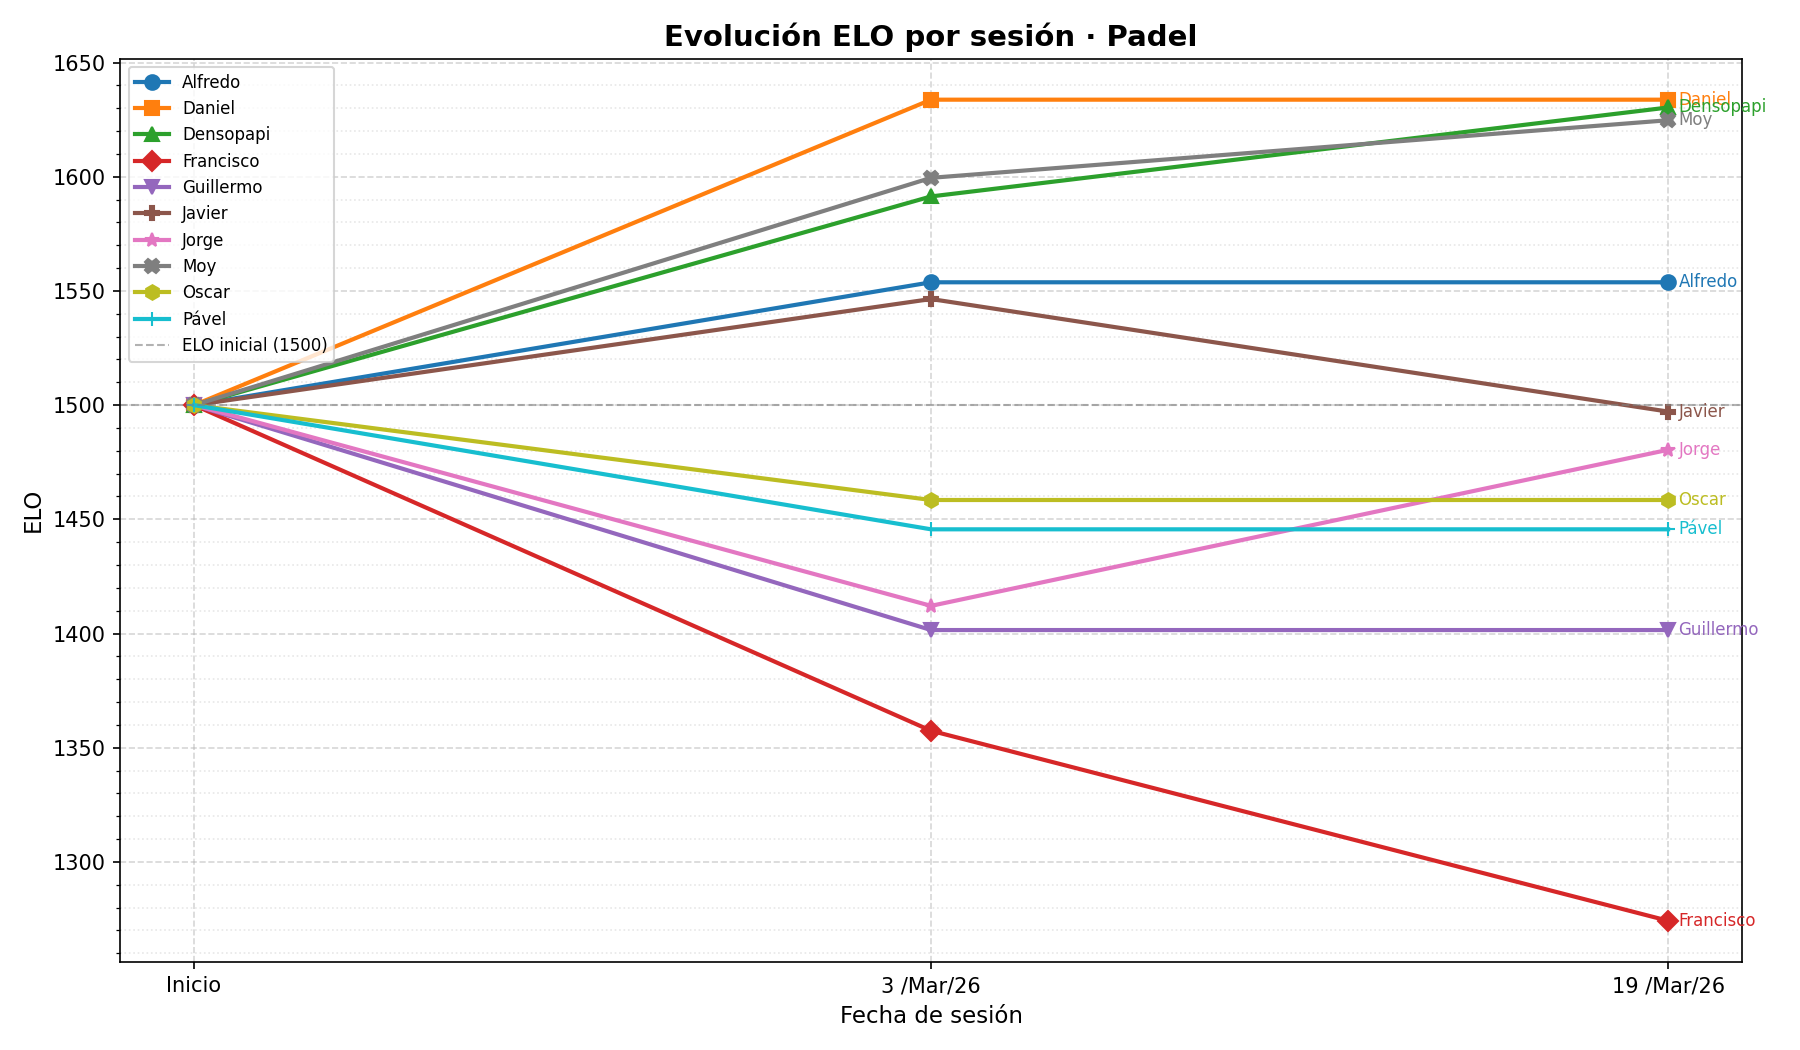
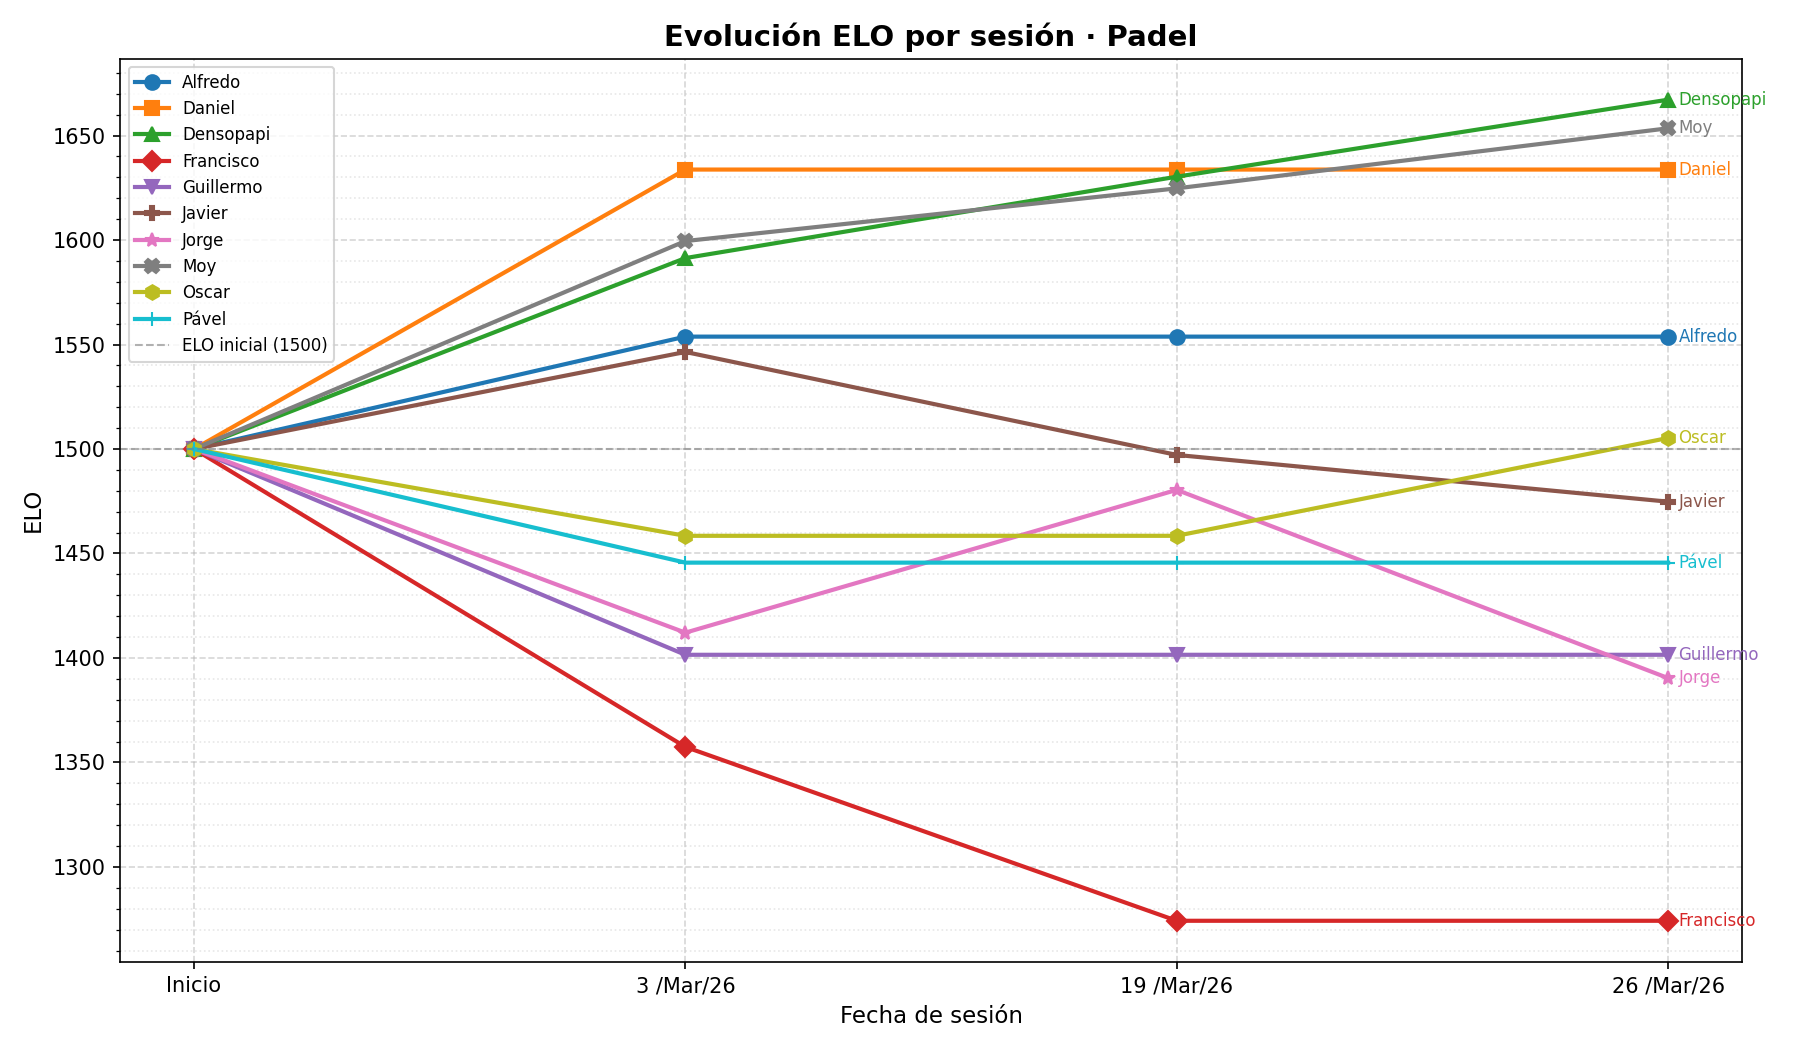
new ranking

diff --git a/padel_elo.py b/padel_elo.py
@@ -43,7 +43,14 @@ MATCHES_CSV = """Fecha,Ronda,Pista,Equipo 1,Equipo 2,Marcador
 19 /Mar/26,4,1,Moy / Javier,Francisco / Jorge,4 - 1
 19 /Mar/26,5,1,Densopapi / Francisco,Jorge / Javier,1 - 4
 19 /Mar/26,6,1,Jorge / Javier,Moy / Densopapi,1 - 6
-19 /Mar/26,7,1,Javier / Moy,Jorge / Densopapi,5 - 6"""
+19 /Mar/26,7,1,Javier / Moy,Jorge / Densopapi,5 - 6
+26 /Mar/26,1,1,Moy / Javier,Jorge / Oscar,3 - 2
+26 /Mar/26,2,1,Densopapi / Moy,Javier / Jorge,4 - 1
+26 /Mar/26,3,1,Densopapi / Javier,Moy / Oscar,1 - 4
+26 /Mar/26,4,1,Densopapi / Jorge,Javier / Oscar,3 - 2
+26 /Mar/26,5,1,Densopapi / Oscar,Moy / Jorge,4 - 1
+26 /Mar/26,6,1,Densopapi / Oscar,Moy / Jorge,6 - 1
+26 /Mar/26,7,1,Densopapi / Jorge,Moy / Javier,2 - 3"""
 
 
 def normalize_name(name: str) -> str:

diff --git a/README.md b/README.md
@@ -110,7 +110,22 @@ Los resultados de los partidos están registrados en el siguiente spreadsheet:
 
 [📊 Resultados Padel](https://docs.google.com/spreadsheets/d/1lnZlkSRlh7VjVhLlCfvkIZWXSgJMMqoK693xAvxxh3o/edit?gid=408319547#gid=408319547)
 
-### Ranking actual
+### 3/Mar/26
+
+| # | Jugador | ELO |
+|---|---------|-----|
+| 🥇 | Daniel | 1634 |
+| 🥈 | Moy | 1600 |
+| 🥉 | Densopapi | 1591 |
+| 4 | Alfredo | 1554 |
+| 5 | Javier | 1546 |
+| 6 | Oscar | 1458 |
+| 7 | Pável | 1446 |
+| 8 | Jorge | 1412 |
+| 9 | Guillermo | 1402 |
+| 10 | Francisco | 1357 |
+
+### 19/Mar/26
 
 | # | Jugador | ELO |
 |---|---------|-----|
@@ -125,7 +140,20 @@ Los resultados de los partidos están registrados en el siguiente spreadsheet:
 | 9 | Guillermo | 1402 |
 | 10 | Francisco | 1274 |
 
-> Actualizado al 19/Mar/26.
+### 26/Mar/26
+
+| # | Jugador | ELO |
+|---|---------|-----|
+| 🥇 | Densopapi | 1667 |
+| 🥈 | Moy | 1653 |
+| 🥉 | Daniel | 1634 |
+| 4 | Alfredo | 1554 |
+| 5 | Oscar | 1505 |
+| 6 | Javier | 1475 |
+| 7 | Pável | 1446 |
+| 8 | Guillermo | 1402 |
+| 9 | Jorge | 1390 |
+| 10 | Francisco | 1274 |
 
 ---
 
